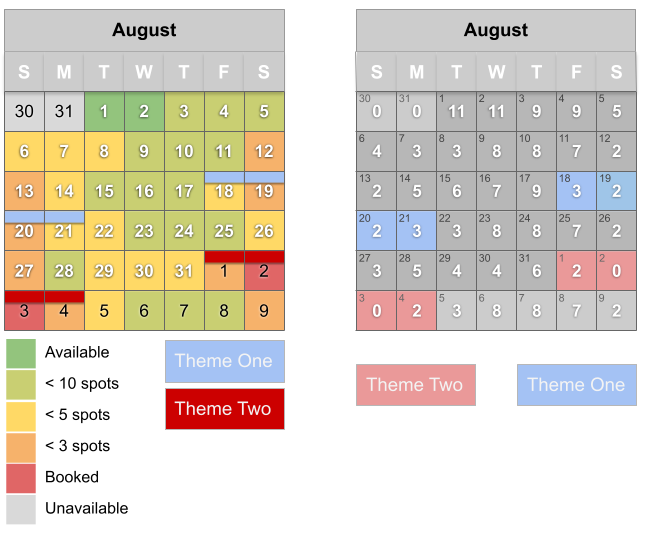
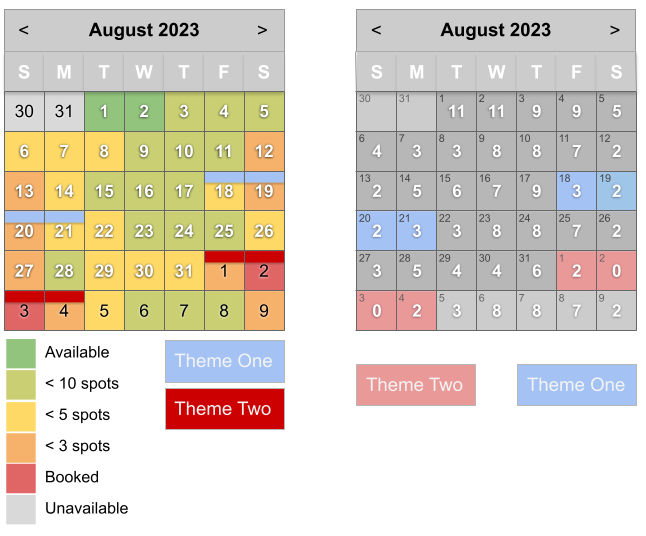
Implemented month pagination, theme colors, theme events, display daily slots, display each days date

diff --git a/calendar/cal/calendar.js b/calendar/cal/calendar.js
@@ -1,50 +1,167 @@
 var calendarId = 'calendar';
 var calElement;
-const daysOfWeek = ['S','M','T','W','T','F','S'];
+var theme = 1;
+const daysOfWeek = ['S', 'M', 'T', 'W', 'T', 'F', 'S'];
+const legend = [
+    { color: '#93c47dff', min: 10, max: 50, label: 'Available' },
+    { color: '#c9cf72ff', min: 5, max: 9, label: '< 10 spots' },
+    { color: '#ffd966ff', min: 3, max: 4, label: '< 5 spots' },
+    { color: '#f6b26bff', min: 1, max: 2, label: '< 3 spots' },
+    { color: '#e06666ff', min: 0, max: 0, label: 'Booked' },
+    { color: '#d9d9d9ff', min: -1, max: -1, label: 'Unavailable' }
+];
 var calDate = new Date();
+function setupLegend(config) {
+    if (theme === 1) {
+        let tbl = document.createElement('table');
+        document.getElementById(config.id).appendChild(tbl);
+        legend.map((item, index) => {
+            let row = tbl.insertRow(index);
+            let col = row.insertCell(0);
+            col.className = 'legend-cell';
+            col.style = 'background-color: ' + item.color;
+
+            col = row.insertCell(1);
+            col.innerText = item.label;
+        });
+    }
+}
+function renderThemeEvents(config) {
+    if (data) {
+        let tbl = document.createElement('table');
+        document.getElementById(config.themeId).appendChild(tbl);
+        data.themeDates.map((event, index) => {
+            let row = tbl.insertRow(index);
+            let col = row.insertCell(0);
+            col.className = 'theme-cell';
+            col.style = 'background-color: ' + event.color;
+            col.innerText = event.name;
+        });
+    }
+}
 function setupCalendar(config) {
     if (config.id) {
         calendarId = config.id;
+    }
+    if (!isNaN(config.theme)) {
+        theme = config.theme;
     }
     //Load CSS
     let link = document.createElement('link');
     link.rel = 'stylesheet';
     link.type = 'text/css';
     link.href = './cal/calendar.css';
-    // Append link element to HTML head
     document.head.appendChild(link);
     //Load config file
     var script = document.createElement('script');
     script.onload = function () {
         renderCalendar();
+        if (config.themeId) {
+            renderThemeEvents(config);
+        }
     };
     script.src = config.file;
     document.head.appendChild(script);
 }
+function changeMonth(e) {
+    calDate.setMonth(calDate.getMonth() + ((e.currentTarget.id === 'next') ? 1 : -1));
+    renderCalendar();
+}
+function getDateTheme(date) {
+    for (let event of data.themeDates) {
+        let eStart = event.strt.split('-');
+        eStart = new Date(eStart[2], Number(eStart[1]) - 1, eStart[0]);
+        let eEnd = event.ed.split('-');
+        eEnd = new Date(eEnd[2], Number(eEnd[1]) - 1, eEnd[0]);
+        if (eStart <= date && eEnd >= date) {
+            return event.color;
+        }
+    };
+    return null;
+}
+function getSlots(date) {
+    return data.slots[date.getDate() + '-' + (date.getMonth() + 1) + '-' + date.getFullYear()];
+}
+function getSlotColor(slots) {
+    for (let slot of legend) {
+        if (slot.min <= slots && slot.max >= slots) {
+            return slot.color;
+        }
+    }
+}
 function renderCalendar() {
-    let startOfMonth = new Date(calDate.getFullYear(), calDate.getMonth(),1);
-    startOfMonth = new Date(calDate.getFullYear(), calDate.getMonth(),1-startOfMonth.getDay());
+    let startOfMonth = new Date(calDate.getFullYear(), calDate.getMonth(), 1);
+    startOfMonth = new Date(calDate.getFullYear(), calDate.getMonth(), 1 - startOfMonth.getDay());
     calElement = document.getElementById(calendarId);
+    calElement.innerHTML = '';
     calElement.className = 'calendar';
-    console.log(data);
     let tbl = document.createElement('table');
+    calElement.appendChild(tbl);
     let row = tbl.insertRow(0);
-    row.className = 'header';
+    row.className = 'calendar-nav';
+    let col = row.insertCell(0);
+    col.className = 'change-month';
+    col.id = 'previous';
+    col.onclick = changeMonth;
+    col.innerHTML = "<span title='Previous Month'><</span>";
+    col = row.insertCell(1);
+    col.className = 'date-display';
+    col.colSpan = 5;
+    col.innerText = calDate.toLocaleDateString("en-us", { month: "long", year: "numeric" });
+    col = row.insertCell(2);
+    col.className = 'change-month';
+    col.id = 'next';
+    col.onclick = changeMonth;
+    col.innerHTML = "<span title='Next Month'>></span>";
+    row = tbl.insertRow(1);
+    row.className = 'day-of-week-header';
     daysOfWeek.map((day, i) => {
         let col = row.insertCell(i);
-        col.innerHTML = day;
+        col.className = 'day-of-week';
+        col.innerText = day;
     });
-    for (let week=1;week<=5;week++) {
-        let row = tbl.insertRow(week);
+    for (let week = 1; week <= 6; week++) {
+        let row = tbl.insertRow(week + 1);
         row.className = 'week';
-        for (let day=1;day<=7;day++) {
+        for (let day = 1; day <= 7; day++) {
             let col = row.insertCell(day - 1);
-            col.className = 'day';
-            col.innerHTML = startOfMonth.getDate();
-            startOfMonth.setDate(startOfMonth.getDate()+1);
-        }   
+            col.classList.add('day');
+            let slotsAvailable = getSlots(startOfMonth);
+            let themeColor = getDateTheme(startOfMonth);
+            if (themeColor) {
+                if (theme === 1) {
+                    let theme = document.createElement('div');
+                    theme.className = 'theme1-theme-event';
+                    theme.style = 'background-color: ' + themeColor;
+                    col.appendChild(theme);
+                } else {
+                    col.style = 'background-color: ' + themeColor;
+                }
+            }
+            if (week === 1) {
+                col.classList.add('first-week');
+            }
+            let div = document.createElement('div');
+            div.classList.add('day-cell-theme' + theme);
+            if (startOfMonth.getMonth() === calDate.getMonth()) {
+                div.classList.add('highlight');
+                col.classList.add('thisMonth');
+            }
+            div.innerText = startOfMonth.getDate();
+            col.appendChild(div);
+            if (slotsAvailable != undefined) {
+                if (theme === 1) {
+                    col.style = 'background-color: ' + getSlotColor(slotsAvailable);
+                } else {
+                    div = document.createElement('div');
+                    div.className = 'highlight';
+                    div.innerText = slotsAvailable;
+                    col.appendChild(div);
+                }
+            }
+            startOfMonth.setDate(startOfMonth.getDate() + 1);
+        }
     }
-    calElement.appendChild(tbl);
 }
 
-export { setupCalendar }
+export { setupCalendar, setupLegend, renderThemeEvents }

diff --git a/calendar/cal/calendar.css b/calendar/cal/calendar.css
@@ -1,24 +1,92 @@
-.calendar {
-  font-family: Avenir, Helvetica, Arial, sans-serif;
-  -webkit-font-smoothing: antialiased;
-  -moz-osx-font-smoothing: grayscale;
-}
-.header {
+.calendar-nav {
+    border: 1px solid #999999;
+    border-bottom: none;
     background-color: #ccccccff;
-    box-shadow: 3 3 3 #000;
-    border:1px solid #000;
 }
+.change-month {
+    cursor: pointer;
+}
+.date-display {
+    font-weight: bold;
+    font-size: 20px;
+    width: calc(100% - 2px);
+}
+
+.day-of-week-header {
+    color: #FFF;
+    background-color: #ccccccff;
+    border: 1px solid #999999;
+    font-weight: bold;
+    font-size: 20px;
+}
+
 .day {
+    position: relative;
+    font-weight: bold;
     color: #000;
     border: 1px solid #666666;
+    background-color: #ccccccff;
+    text-shadow: 0px 0px 3px #FFF;
 }
-.calendar table {
+.thisMonth {
+    background-color: #b7b7b7ff;
+}
+.theme1-theme-event {
+    position: absolute;
+    top:0px;
+    left: 0px;
+    height: 13px;
+    width: calc( 100% );
+}
+.day-of-week {
+    box-shadow: inset 3px 0px 3px -3px rgba(50, 50, 50, 0.3);
+}
+
+.first-week {
+    box-shadow: inset 0px 7px 3px -3px rgba(50, 50, 50, 0.3);
+}
+
+.highlight {
+    text-shadow: 0px 0px 3px #000;
     color: #FFF;
+}
+
+.day-cell-theme2 {
+    font-weight: normal;
+    font-size: 11px;
+    color: #666666;
+    text-shadow: none;
+    position: absolute;
+    top: 2px;
+    left: 2px;
+}
+
+.calendar table {
     width: 100%;
     border-collapse: collapse;
     height: 100%;
 }
-td {
-    width: calc( 100% / 7);
+
+.calendar td {
+    width: calc(100% / 7);
+    height: calc(100% / 8);
     text-align: center;
+}
+table {
+    font-family: Avenir, Helvetica, Arial, sans-serif;
+    -webkit-font-smoothing: antialiased;
+    -moz-osx-font-smoothing: grayscale;
+}
+/*-------------  Theme  -----------------*/
+.theme-cell {
+    padding: 10px;
+    color: #FFF;
+    height: 25px;
+    width: auto;
+}
+/*------------- Legend  -----------------*/
+.legend-cell {
+    padding: 5px;
+    width: 20px;
+    height: 20px;
 }

diff --git a/calendar/data.js b/calendar/data.js
@@ -1,3 +1,58 @@
 const data = {
-    something: 'else'
+    themeDates: [
+        {
+            name: 'Ladies Weekend',
+            strt: '18-08-2023',
+            ed: '21-08-2023',
+            color: '#a4c2f4'
+        },
+        {
+            name: 'Jump Clinic',
+            strt: '01-09-2023',
+            ed: '04-09-2023',
+            color: '#ea9999'
+        }
+    ],
+    slots: {
+        '1-8-2023': 11,
+        '2-8-2023': 11,
+        '3-8-2023': 9,
+        '4-8-2023': 9,
+        '5-8-2023': 5,
+        '6-8-2023': 4,
+        '7-8-2023': 3,
+        '8-8-2023': 3,
+        '9-8-2023': 8,
+        '10-8-2023': 8,
+        '11-8-2023': 7,
+        '12-8-2023': 2,
+        '13-8-2023': 2,
+        '14-8-2023': 5,
+        '15-8-2023': 6,
+        '16-8-2023': 7,
+        '17-8-2023': 9,
+        '18-8-2023': 3,
+        '19-8-2023': 2,
+        '20-8-2023': 2,
+        '21-8-2023': 3,
+        '22-8-2023': 3,
+        '23-8-2023': 8,
+        '24-8-2023': 8,
+        '25-8-2023': 7,
+        '26-8-2023': 2,
+        '27-8-2023': 3,
+        '28-8-2023': 5,
+        '29-8-2023': 4,
+        '30-8-2023': 4,
+        '31-8-2023': 6,
+        '1-9-2023': 2,
+        '2-9-2023': 0,
+        '3-9-2023': 0,
+        '4-9-2023': 2,
+        '5-9-2023': 3,
+        '6-9-2023': 8,
+        '7-9-2023': 8,
+        '8-9-2023': 7,
+        '9-9-2023': 2
+    }
 };

diff --git a/calendar/index.html b/calendar/index.html
@@ -6,12 +6,29 @@
     <link rel="icon" href="favicon.ico">
     <title>Calendar Example</title>
     <script type="module">
-        import { setupCalendar } from './cal/calendar.js';
-        setupCalendar({ file: 'data.js', id: 'calendar' });
+        import { setupCalendar, setupLegend, renderThemeEvents } from './cal/calendar.js';
+        setupCalendar({ theme: 1, file: 'data.js', id: 'calendar', themeId: 'themes' });
+        setupLegend({ id: 'legend' });
     </script>
+    <style>
+        body {
+            font-family: Avenir, Helvetica, Arial, sans-serif;
+            -webkit-font-smoothing: antialiased;
+            -moz-osx-font-smoothing: grayscale;
+        }
+        h1 {
+            text-align: center;
+        }
+        #calendar, #legend, #themes {
+            float:left;
+            padding: 10px;
+        }
+    </style>
 </head>
 <body>
-    Calendar
-    <div id="calendar" style="width: 400px; height: 300px;"></div>
+    <h1>Calendar</h1>
+        <div id="calendar" style="width: 330px; height: 370px;"></div>
+        <div id="legend"></div>
+        <div id="themes"></div>
 </body>
 </html>
